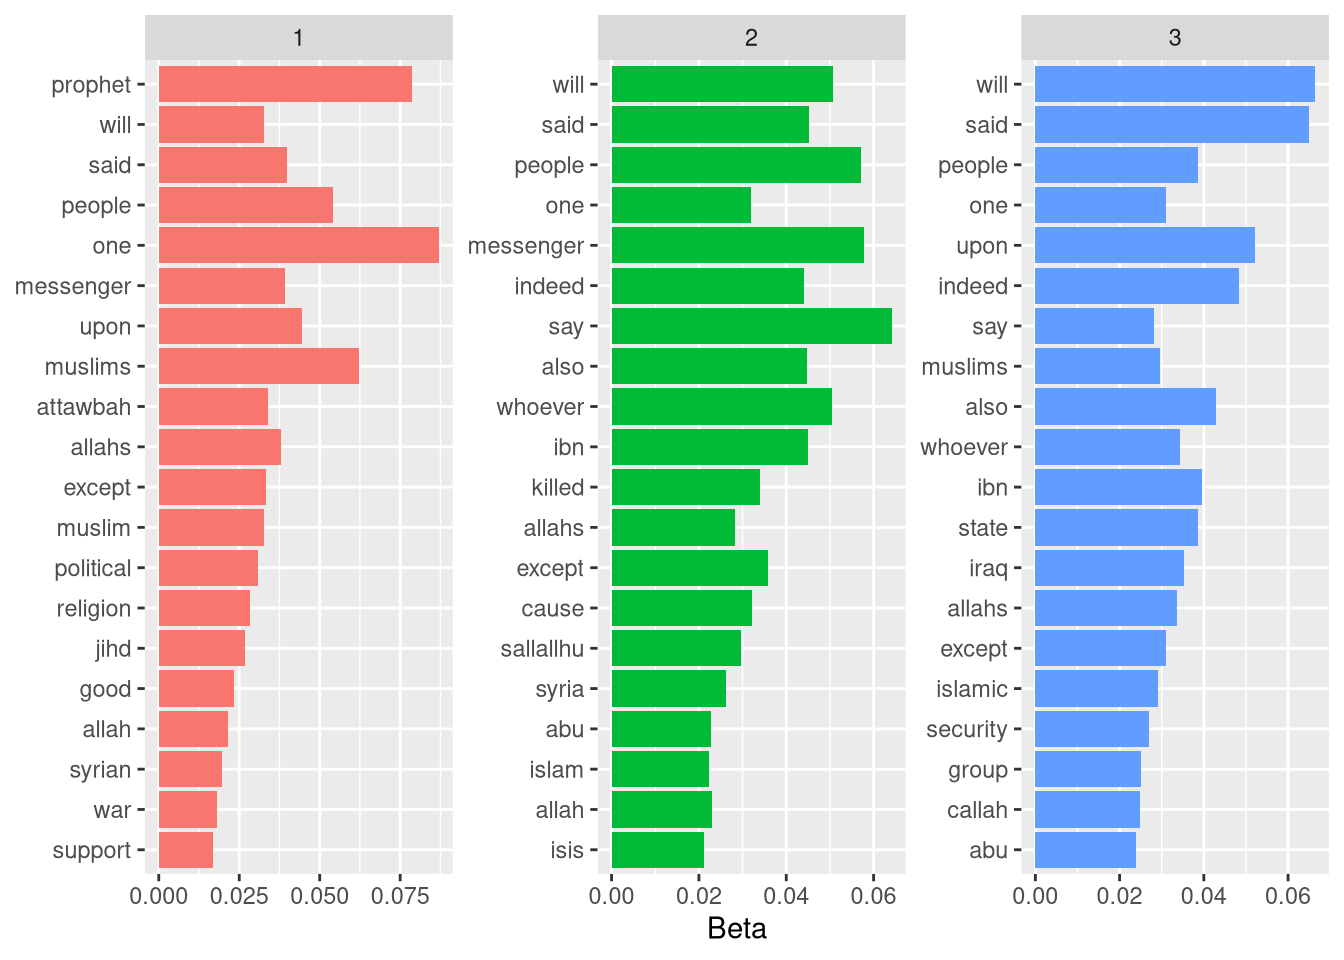
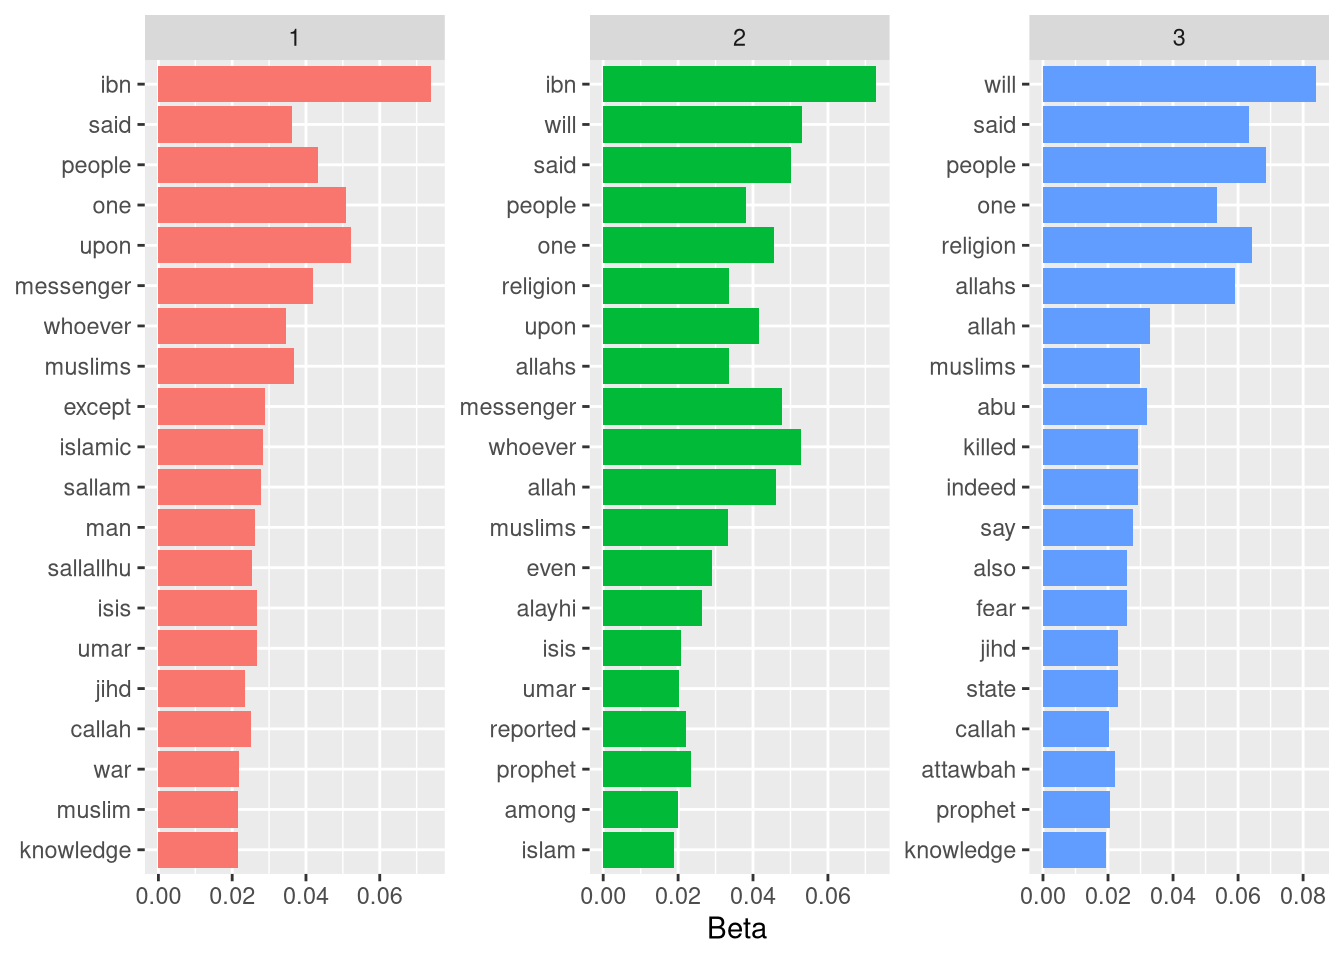
INFERNOOOOOO

diff --git a/content/post/2020-04-22-escola-isis-de-radicalizacao-religiosa-uma-analise-com-nlp.html b/content/post/2020-04-22-escola-isis-de-radicalizacao-religiosa-uma-analise-com-nlp.html
@@ -9,7 +9,7 @@ lastmod: '2020-04-22T19:35:15-03:00'
 layout: post
 type: post
 highlight: yes
-Description: 'Nessa publicação aplico o modelo LDA em um dataset que contém artigos de revista utilizados pelo Estado Islâmico em sua propaganda política.'
+description: 'Nessa publicação aplico o modelo LDA em um dataset que contém artigos de revista utilizados pelo Estado Islâmico em sua propaganda política.'
 ---
 
 
@@ -94,16 +94,16 @@ res</code></pre>
 <pre><code>## # A tibble: 60 x 3
 ##    topic term         beta
 ##    &lt;int&gt; &lt;chr&gt;       &lt;dbl&gt;
-##  1     1 allah     0.0448 
-##  2     1 said      0.0337 
-##  3     1 messenger 0.0137 
-##  4     1 will      0.0128 
-##  5     1 ibn       0.0128 
-##  6     1 allahs    0.00849
-##  7     1 one       0.00805
-##  8     1 people    0.00742
-##  9     1 indeed    0.00725
-## 10     1 upon      0.00656
+##  1     1 allah     0.0564 
+##  2     1 will      0.0234 
+##  3     1 said      0.0209 
+##  4     1 people    0.0117 
+##  5     1 indeed    0.0114 
+##  6     1 messenger 0.00990
+##  7     1 upon      0.00927
+##  8     1 one       0.00812
+##  9     1 religion  0.00716
+## 10     1 say       0.00693
 ## # … with 50 more rows</code></pre>
 <p>O trecho acima é bem auto-explicativo, até mesmo devido aos comentários no código. Informações extras podem ser encontradas na documentação das funções.</p>
 <p>Vamos plotar as informações que conseguimos, assim é possível visualizarmos melhor o resultado.</p>

diff --git a/public/post/isis-nlp-analysis/index.html b/public/post/isis-nlp-analysis/index.html
@@ -221,16 +221,16 @@ res</code></pre>
 <pre><code>## # A tibble: 60 x 3
 ##    topic term         beta
 ##    &lt;int&gt; &lt;chr&gt;       &lt;dbl&gt;
-##  1     1 allah     0.0448 
-##  2     1 said      0.0337 
-##  3     1 messenger 0.0137 
-##  4     1 will      0.0128 
-##  5     1 ibn       0.0128 
-##  6     1 allahs    0.00849
-##  7     1 one       0.00805
-##  8     1 people    0.00742
-##  9     1 indeed    0.00725
-## 10     1 upon      0.00656
+##  1     1 allah     0.0564 
+##  2     1 will      0.0234 
+##  3     1 said      0.0209 
+##  4     1 people    0.0117 
+##  5     1 indeed    0.0114 
+##  6     1 messenger 0.00990
+##  7     1 upon      0.00927
+##  8     1 one       0.00812
+##  9     1 religion  0.00716
+## 10     1 say       0.00693
 ## # … with 50 more rows</code></pre>
 <p>O trecho acima é bem auto-explicativo, até mesmo devido aos comentários no código. Informações extras podem ser encontradas na documentação das funções.</p>
 <p>Vamos plotar as informações que conseguimos, assim é possível visualizarmos melhor o resultado.</p>

diff --git a/content/post/2020-03-17-introdução-às-expressões-regulares.html b/content/post/2020-03-17-introdução-às-expressões-regulares.html
@@ -14,7 +14,7 @@ tags:
 Categories:
   - nlp
   - dificuldade intermediaria
-Description: 'Nesse primeiro bloco de um tutorial em duas partes explico o básico sobre manipulação de texto em R, o que é uma string, como usar o pacote Stringr para fazer operações simples, além de (claro) operadores básicos das expressões regulares.'
+description: 'Nesse primeiro bloco de um tutorial em duas partes explico o básico sobre manipulação de texto em R, o que é uma string, como usar o pacote Stringr para fazer operações simples, além de (claro) operadores básicos das expressões regulares.'
 Tags:
   - nlp
   - r
